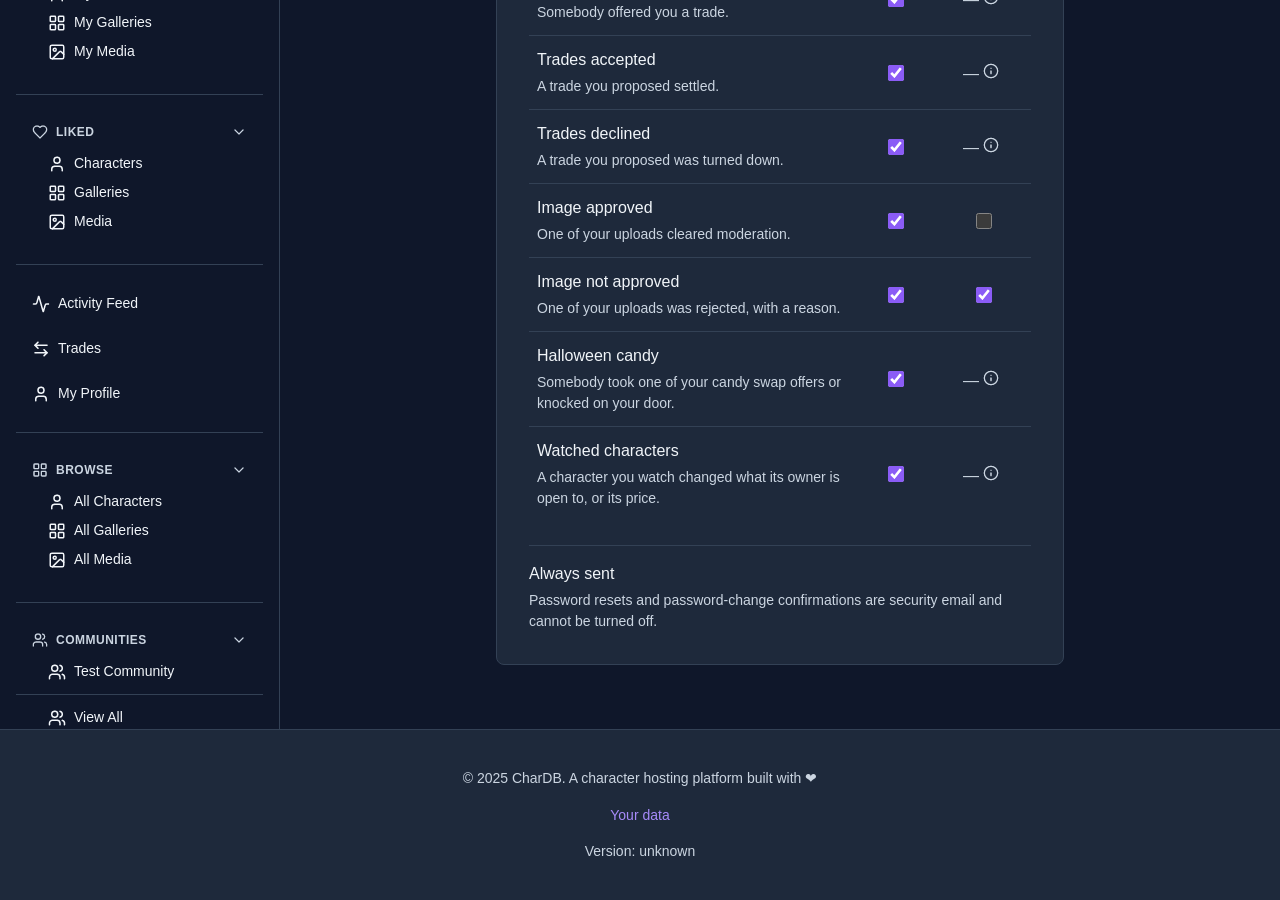
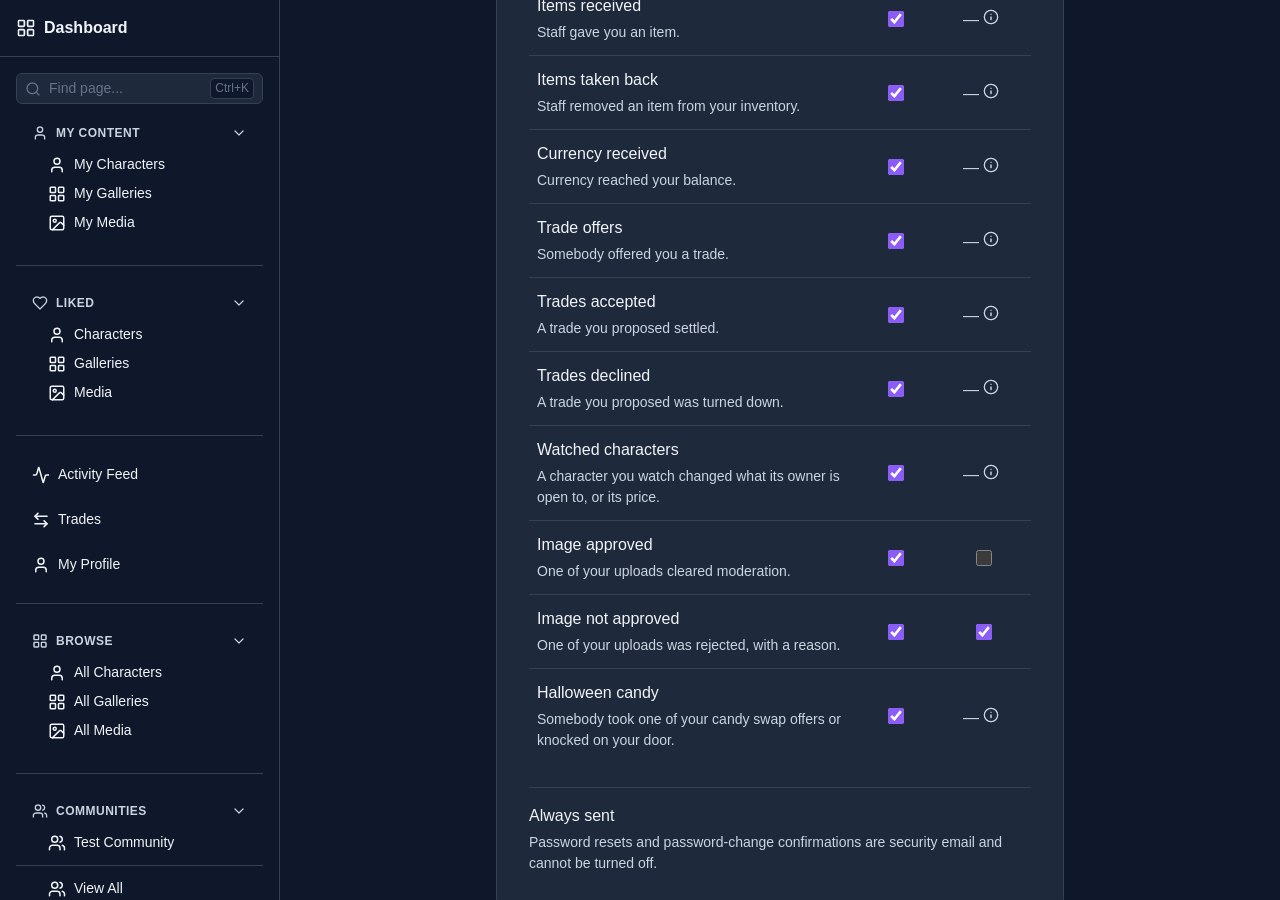
fix(watches): leave the current owner out; list beside trades; mention a cleared price

diff --git a/apps/backend/src/notification-preferences/notification-preference-defaults.ts b/apps/backend/src/notification-preferences/notification-preference-defaults.ts
@@ -23,6 +23,13 @@ export const NOTIFICATION_PREFERENCE_DEFAULTS = {
   [NotificationKind.TRADE_OFFERED]: { inApp: true, email: false },
   [NotificationKind.TRADE_ACCEPTED]: { inApp: true, email: false },
   [NotificationKind.TRADE_DECLINED]: { inApp: true, email: false },
+  // Only ever reaches someone who pressed Watch, so it is asked for by
+  // definition. Listed beside the trade kinds, which is where the settings
+  // page shows it.
+  [NotificationKind.CHARACTER_AVAILABILITY_CHANGED]: {
+    inApp: true,
+    email: false,
+  },
 
   // The two the issue is actually about. An approval is the expected outcome
   // and tells the uploader nothing they need, so it does not earn a mail. A
@@ -33,13 +40,6 @@ export const NOTIFICATION_PREFERENCE_DEFAULTS = {
   [NotificationKind.HALLOWEEN_CANDY_TRADED]: { inApp: true, email: false },
   // Unused: shares HALLOWEEN_CANDY_TRADED's switch (`SHARED_SWITCHES`).
   [NotificationKind.HALLOWEEN_DOOR_KNOCKED]: { inApp: true, email: false },
-
-  // Only ever reaches someone who pressed Watch, so it is asked for by
-  // definition.
-  [NotificationKind.CHARACTER_AVAILABILITY_CHANGED]: {
-    inApp: true,
-    email: false,
-  },
 } as const satisfies Record<
   NotificationKind,
   { inApp: boolean; email: boolean }

diff --git a/apps/backend/src/character-watches/character-watches.e2e.spec.ts b/apps/backend/src/character-watches/character-watches.e2e.spec.ts
@@ -202,6 +202,34 @@ describe("Character watches (e2e)", () => {
     ).toBe(0);
   });
 
+  it("does not tell a watcher who has since become the owner", async () => {
+    await watch(watcherToken);
+    await testApp.getDb().character.update({
+      where: { id: characterId },
+      data: { ownerId: watcherId },
+    });
+    // Staff, not the new owner, makes the edit, so the actor rule alone
+    // would not leave the owner out.
+    const staff = await testApp.createTestUser();
+    const membership = await testApp
+      .getDb()
+      .communityMember.findFirstOrThrow({ where: { userId: ownerId } });
+    await testApp.createTestCommunityMember(staff.id, membership.roleId);
+    const staffToken = await testApp.generateTestToken(
+      staff.id,
+      staff.username,
+    );
+
+    const response = await testApp.authenticatedGraphqlRequest(
+      UPDATE_PROFILE,
+      { id: characterId, input: { isFreebie: true } },
+      staffToken,
+    );
+    expect(response.body.errors).toBeUndefined();
+
+    expect(await watcherNotifications()).toHaveLength(0);
+  });
+
   it("tells nobody when the same edit makes the character private", async () => {
     await watch(watcherToken);
 

diff --git a/apps/backend/src/character-watches/character-watches.service.ts b/apps/backend/src/character-watches/character-watches.service.ts
@@ -63,6 +63,7 @@ export class CharacterWatchesService {
       where: { id: event.characterId },
       select: {
         name: true,
+        ownerId: true,
         visibility: true,
         deletedAt: true,
         species: { select: { communityId: true } },
@@ -76,8 +77,13 @@ export class CharacterWatchesService {
       return;
     }
 
+    // A watch survives the watcher coming to own the character, and owners
+    // are not shown the button to undo it, so the owner is left out here.
     const watches = await this.db.characterWatch.findMany({
-      where: { characterId: event.characterId },
+      where: {
+        characterId: event.characterId,
+        ...(character.ownerId ? { userId: { not: character.ownerId } } : {}),
+      },
       select: { userId: true },
     });
 

diff --git a/apps/frontend/src/components/notifications/__tests__/notification-display.test.ts b/apps/frontend/src/components/notifications/__tests__/notification-display.test.ts
@@ -215,6 +215,18 @@ describe("a watched character's availability notification", () => {
     ).toBe("removed Moonbeam's price");
   });
 
+  it("mentions a price cleared in the same save as another change", () => {
+    expect(
+      notificationSentence(
+        availability({
+          availabilityAdded: [CharacterAvailability.Offers],
+          priceChanged: true,
+          price: null,
+        }),
+      ),
+    ).toBe("says Moonbeam is now open to offers, and has no price");
+  });
+
   it("does not invent a price change for a kind this build has not heard of", () => {
     expect(
       notificationSentence(

diff --git a/apps/frontend/src/components/notifications/notification-display.ts b/apps/frontend/src/components/notifications/notification-display.ts
@@ -214,10 +214,10 @@ function availabilitySentence(
   // ride along with.
   const pricedInline =
     priceText && added.includes(CharacterAvailability.ForSale);
-  const priceNote =
-    priceChanged && priceText && !pricedInline
-      ? `, priced at ${priceText}`
-      : "";
+  let priceNote = "";
+  if (priceChanged && !pricedInline) {
+    priceNote = priceText ? `, priced at ${priceText}` : ", and has no price";
+  }
   return `says ${name} is ${parts.join(", and ")}${priceNote}`;
 }
 
